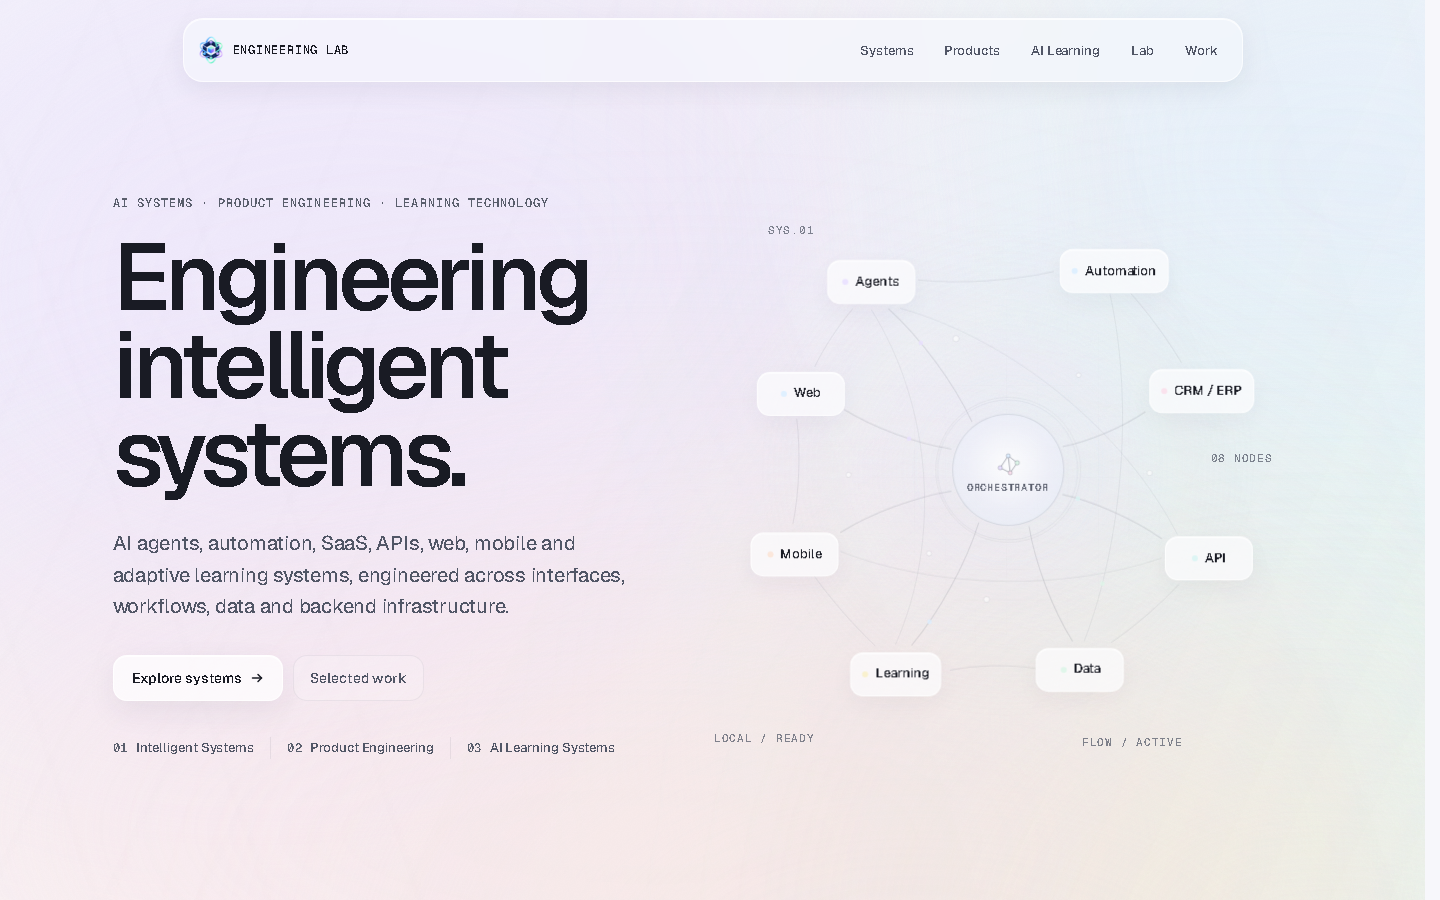
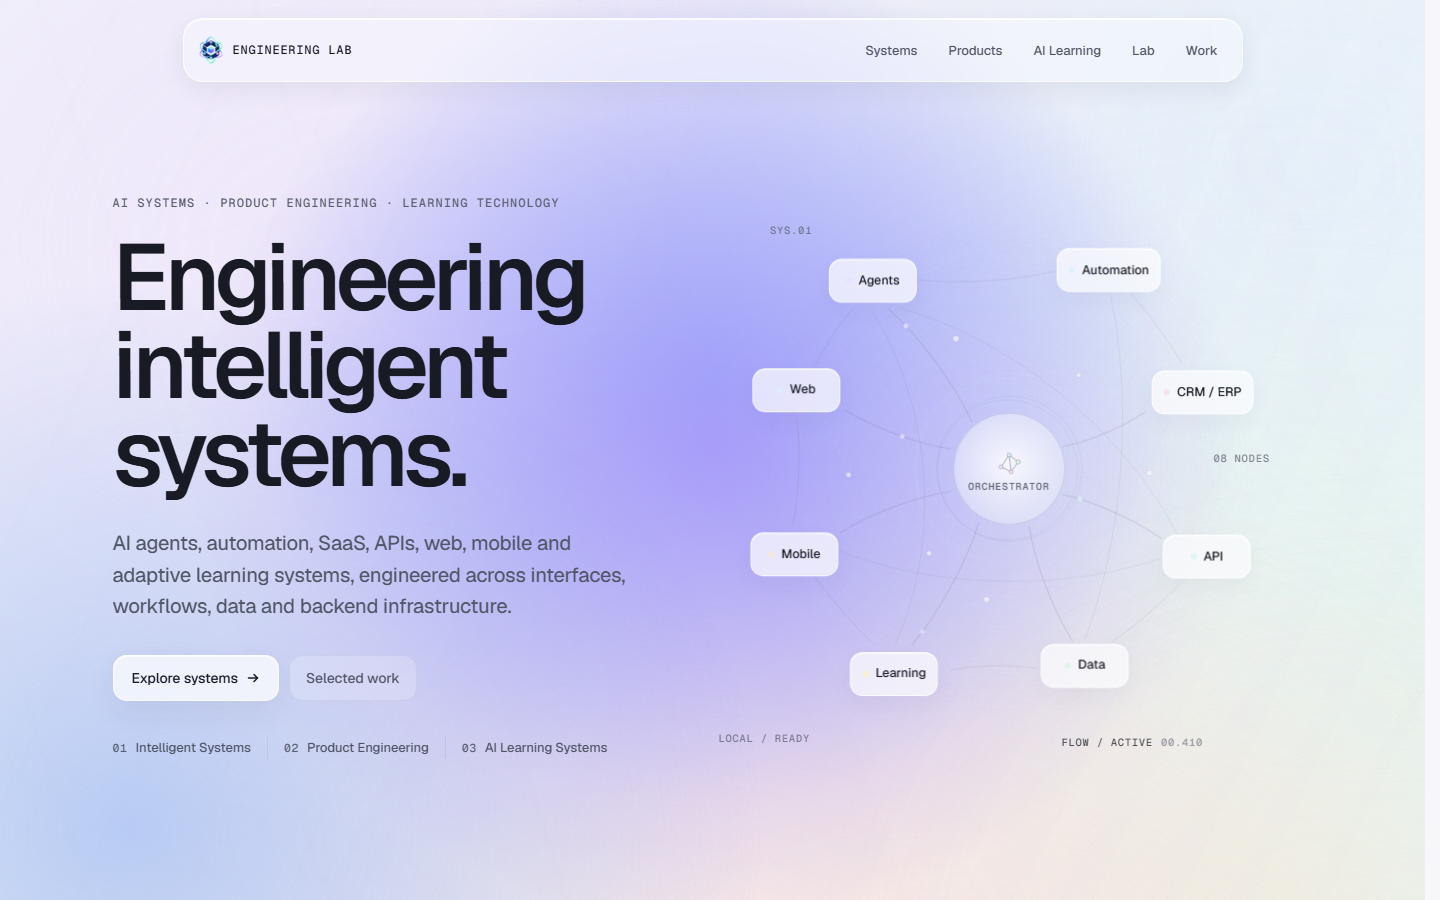
test: verify Stage 09H against the deployed site
Adds qa/stage09h-public.mjs, which re-asserts this stage's claims over HTTPS
against the live origin rather than loopback. A build that is correct on
127.0.0.1 and wrong in production is the only kind of wrong that reaches
anybody, and the Work section now depends on twenty-two image assets that a
release could ship without.

20 checks, all passing: the real Operations captures load, no frame is ever
half painted, all eleven labels are reached, both spectral edges animate, the
pointer field moves, nothing overflows, no certification renders, the bands
under the frame stay removed, and 390px and reduced motion behave.

The check was wrong before the page was. It reported ten of eleven labels and
the missing one was Overview: the FIRST screen, which is what ruled out the
sampling density it first looked like. The walk started at the top edge of the
sequence's range, and the stage does not begin pinning until that edge reaches
the sticky offset, so by the time the page is scrolled there the sequence is
already a few per cent in and advancing to Leads. It starts two hundred pixels
earlier now, which is where stage09h-shots.mjs already started and why the
capture saw all eleven when this did not.

stage09h-shots.mjs takes QA_BASE, so the same frames can be captured from the
deployed site. It had the loopback URL hard-coded, which would have quietly
verified localhost while reporting on production.

The production baseline screenshot is refreshed by the deployment: it now shows
[…]

diff --git a/docs/QA_BASELINE.md b/docs/QA_BASELINE.md
@@ -2834,3 +2834,64 @@ lint failure, and a page that still rendered.
 
 `grep` for the class names the components emit is the check. Not "is this stage
 over" but "does anything still render these class names" (D-108).
+
+---
+
+## Stage 09H public verification
+
+PASS, against the deployed site over HTTPS rather than loopback.
+
+```
+qa/stage09h-public.mjs                  20 checks   ALL PASS
+```
+
+A build that is correct on 127.0.0.1 and wrong in production is the only kind of
+wrong that reaches anybody, and the Work section now depends on twenty-two image
+assets that a release could ship without. So the claims are re-asserted against
+the live origin:
+
+```
+work renders the real Operations captures     /_next/image?url=/operations/...
+no screenshot failed to load                  0
+eleven screens in the DOM                     11
+no half-painted crossfade state exists        0 over 61 scroll positions
+all eleven labels reached                     Overview through Reports
+two spectral edges, animating                 spectral-turn 9s, 3px
+pointer field moves with the pointer          0.0925 -> 0.9054
+no horizontal overflow anywhere               -15px
+no certification renders                      0
+the bands beneath the frame stay removed      0
+the action still points at the demo           /demos/operations
+390px: no overflow, sequence stands down, real mobile capture shown
+reduced motion: nothing enhanced, transformed or turning; H1 exact
+```
+
+### The check that was wrong rather than the page
+
+It reported ten of eleven labels, and the missing one was Overview: the FIRST
+screen, not a middle one, which is what ruled out the sampling density the
+failure first looked like.
+
+The walk started at the top edge of the sequence's range. The stage does not
+begin pinning until that edge reaches the sticky offset, so by the time the page
+is scrolled to it the sequence is already a few per cent in and has begun
+advancing to Leads. The first screen was reported missing on a sequence that
+renders it correctly.
+
+It starts two hundred pixels earlier now, which is where `stage09h-shots.mjs`
+already started and why the capture saw all eleven when this did not. The lesson
+is the same one as the crossfade: a check that measures slightly the wrong thing
+fails in a way that looks like a product defect.
+
+### Deployment
+
+`npm run deploy:safe` aborted on its first run because the working tree was
+dirty, and the dirty file was the deploy log itself, redirected into the repo by
+the invocation. Production was not switched and the active release was untouched,
+which is the gate behaving exactly as D-097 intends. The log belongs outside the
+repository.
+
+The second run switched to `.next-release-a` in 229s. Verified independently
+afterwards: portfolio online, one listener on 3100 owned by the managed PID
+16672, `suspicious` empty with two environment variables, zero unstable restarts,
+and both neighbours still at zero restarts.
